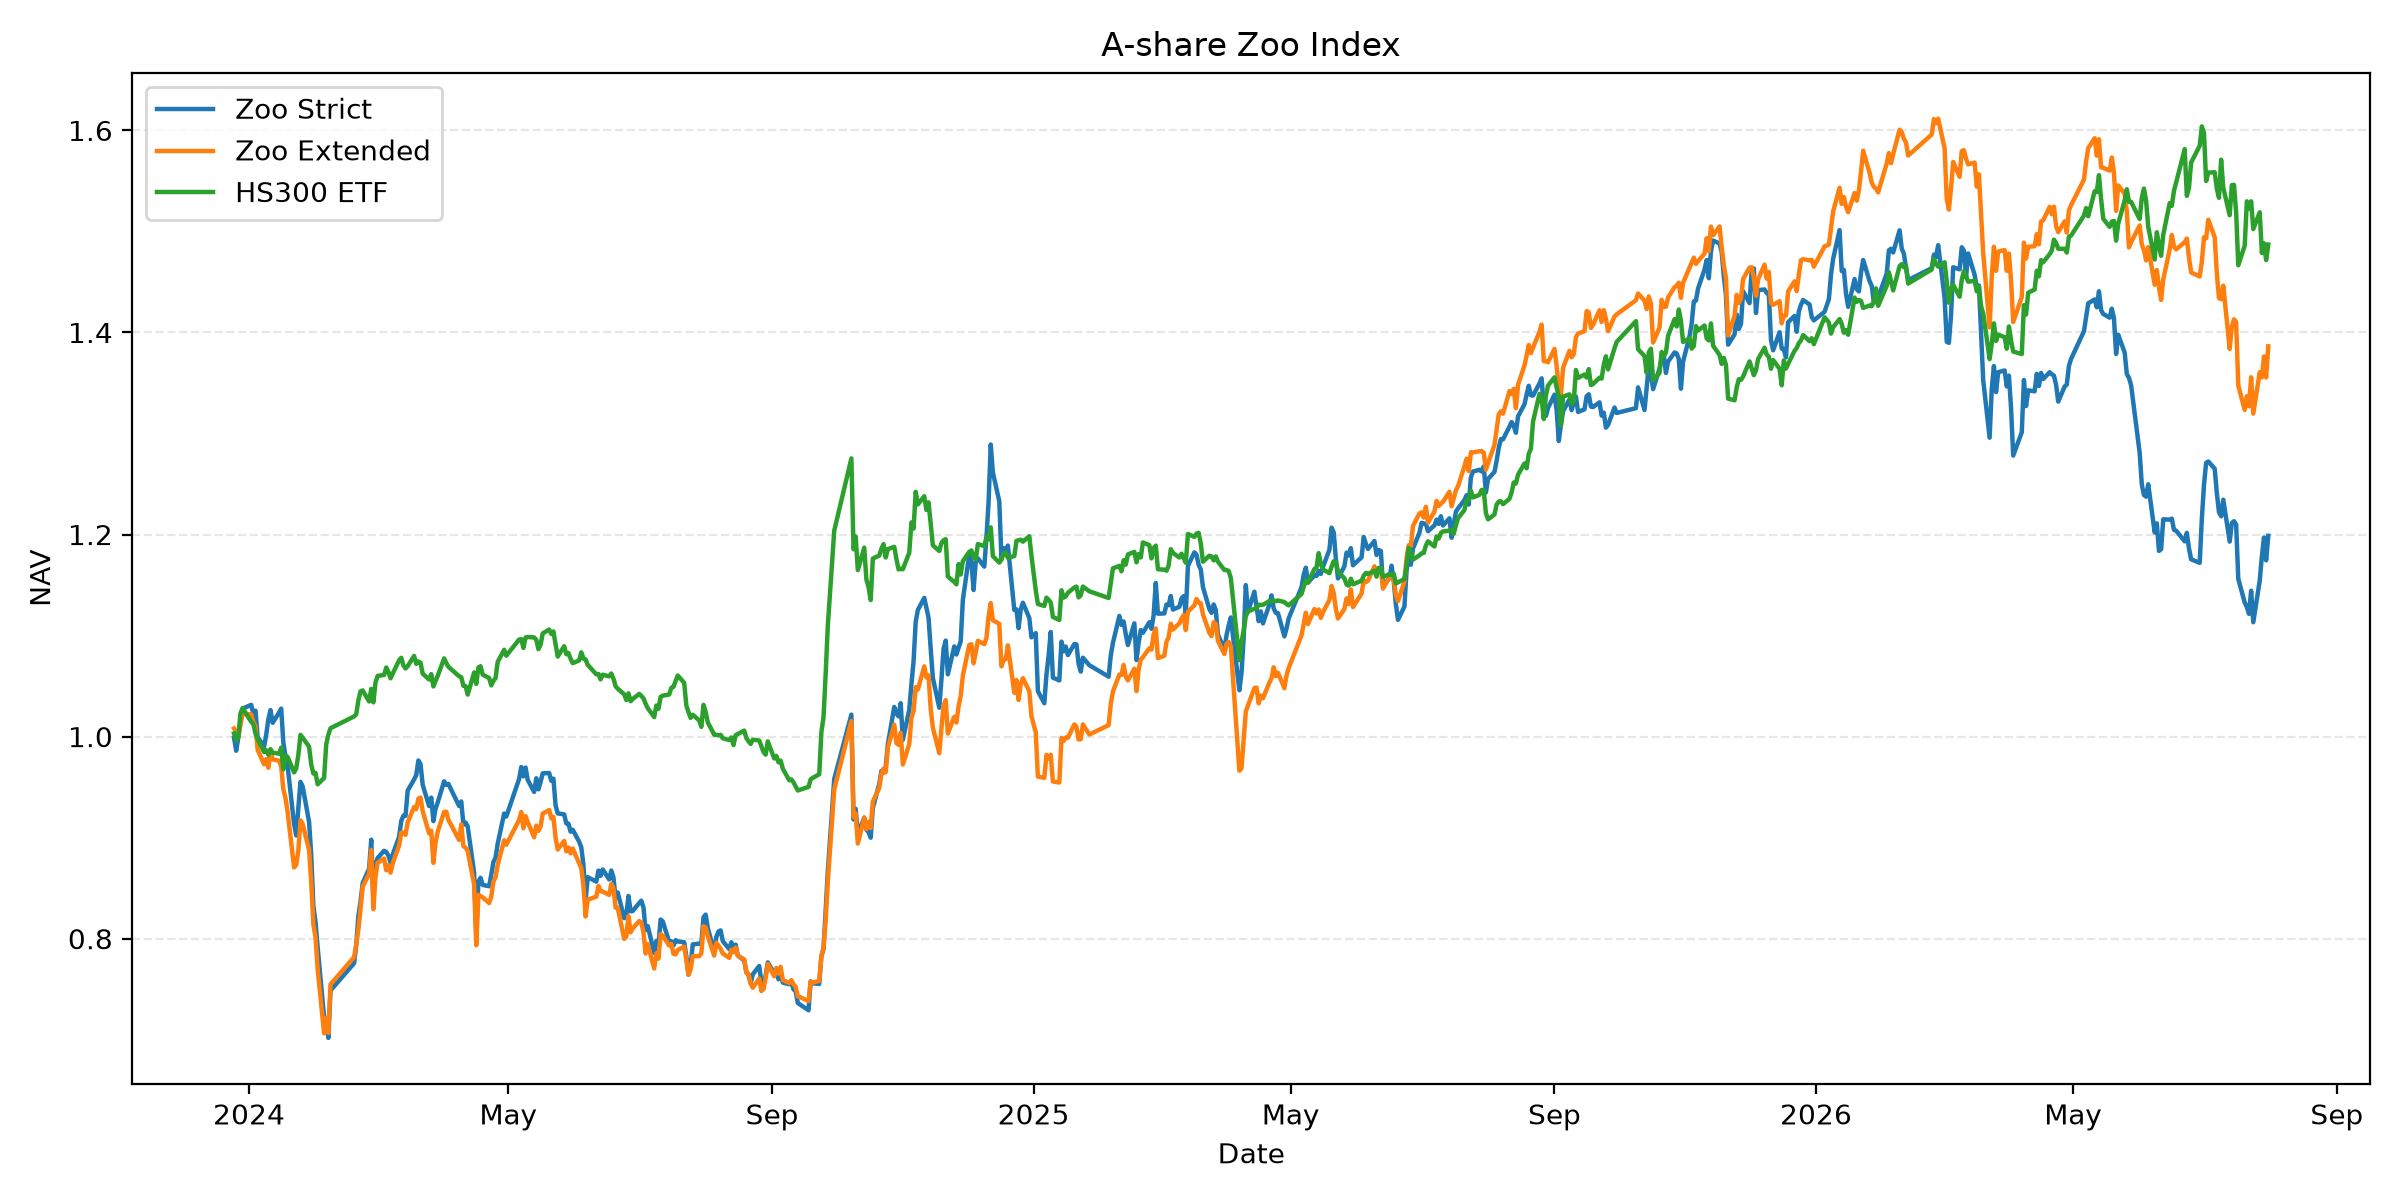
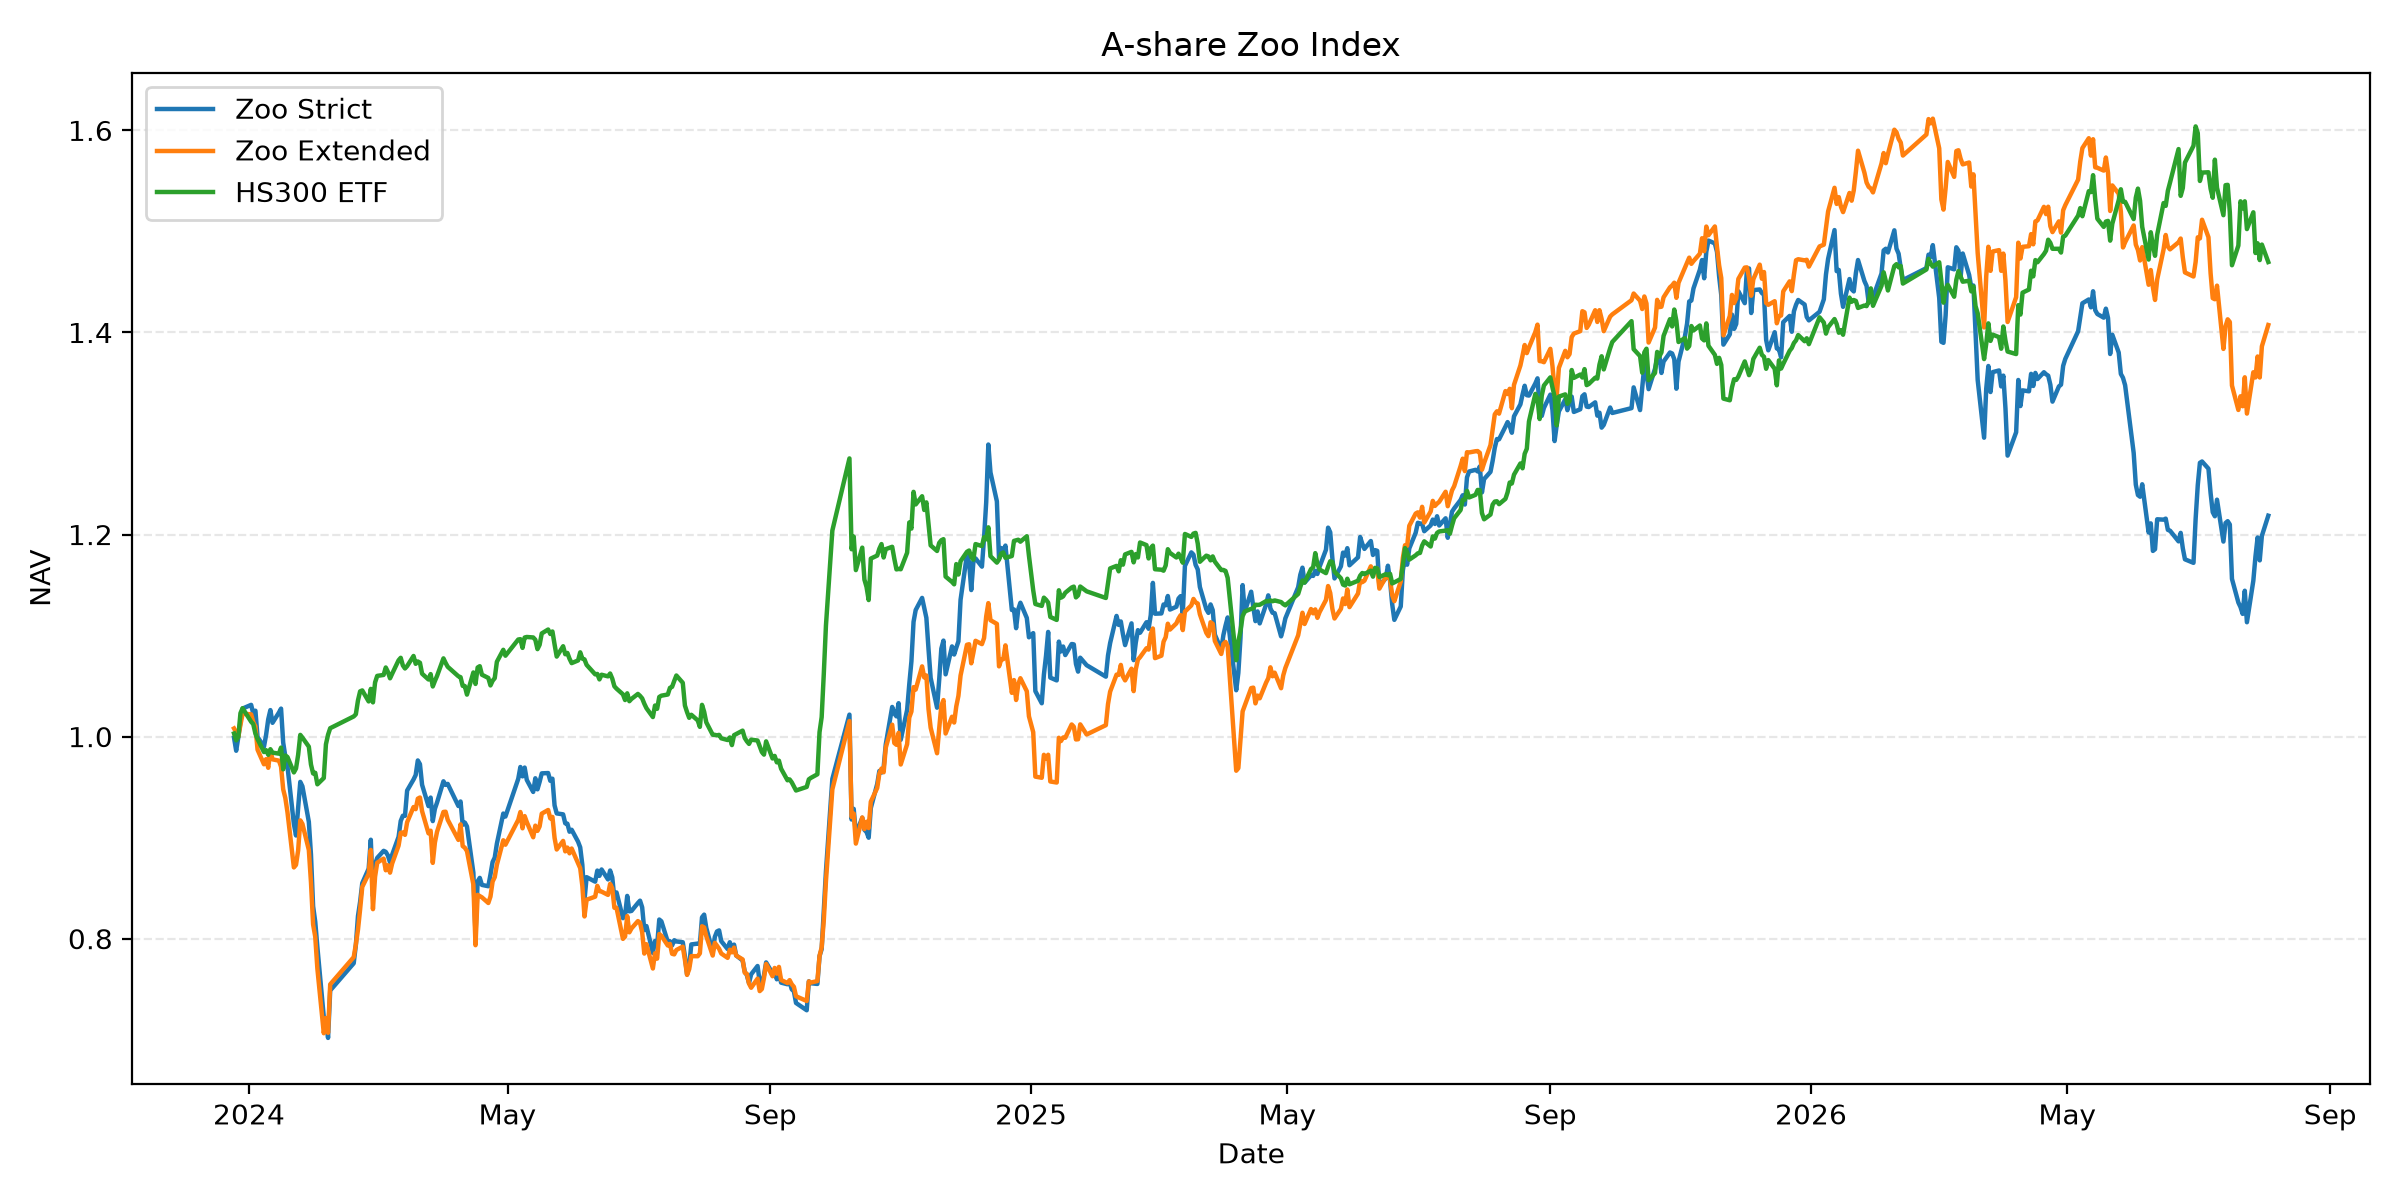
daily update

diff --git a/docs/index.html b/docs/index.html
@@ -85,26 +85,26 @@
 <body>
   <header>
     <h1>A股动物园指数</h1>
-    <div class="subtitle">最近更新：20260731</div>
+    <div class="subtitle">最近更新：20260803</div>
   </header>
   <main>
     <section class="cards">
       <div class="card">
         <h3>严格动物园</h3>
-        <div class="stat">1.1987</div>
-        <div class="stat"><small>今日涨跌</small> 2.07%</div>
+        <div class="stat">1.2186</div>
+        <div class="stat"><small>今日涨跌</small> 1.66%</div>
         <div class="stat"><small>成分股</small> 11/11</div>
       </div>
       <div class="card">
         <h3>扩展动物园</h3>
-        <div class="stat">1.3863</div>
-        <div class="stat"><small>今日涨跌</small> 2.28%</div>
-        <div class="stat"><small>成分股</small> 158/159</div>
+        <div class="stat">1.4074</div>
+        <div class="stat"><small>今日涨跌</small> 1.52%</div>
+        <div class="stat"><small>成分股</small> 159/159</div>
       </div>
       <div class="card">
         <h3>HS300 ETF</h3>
-        <div class="stat">1.4870</div>
-        <div class="stat"><small>今日涨跌</small> 1.04%</div>
+        <div class="stat">1.4697</div>
+        <div class="stat"><small>今日涨跌</small> -1.16%</div>
       </div>
     </section>
     <section class="chart">
